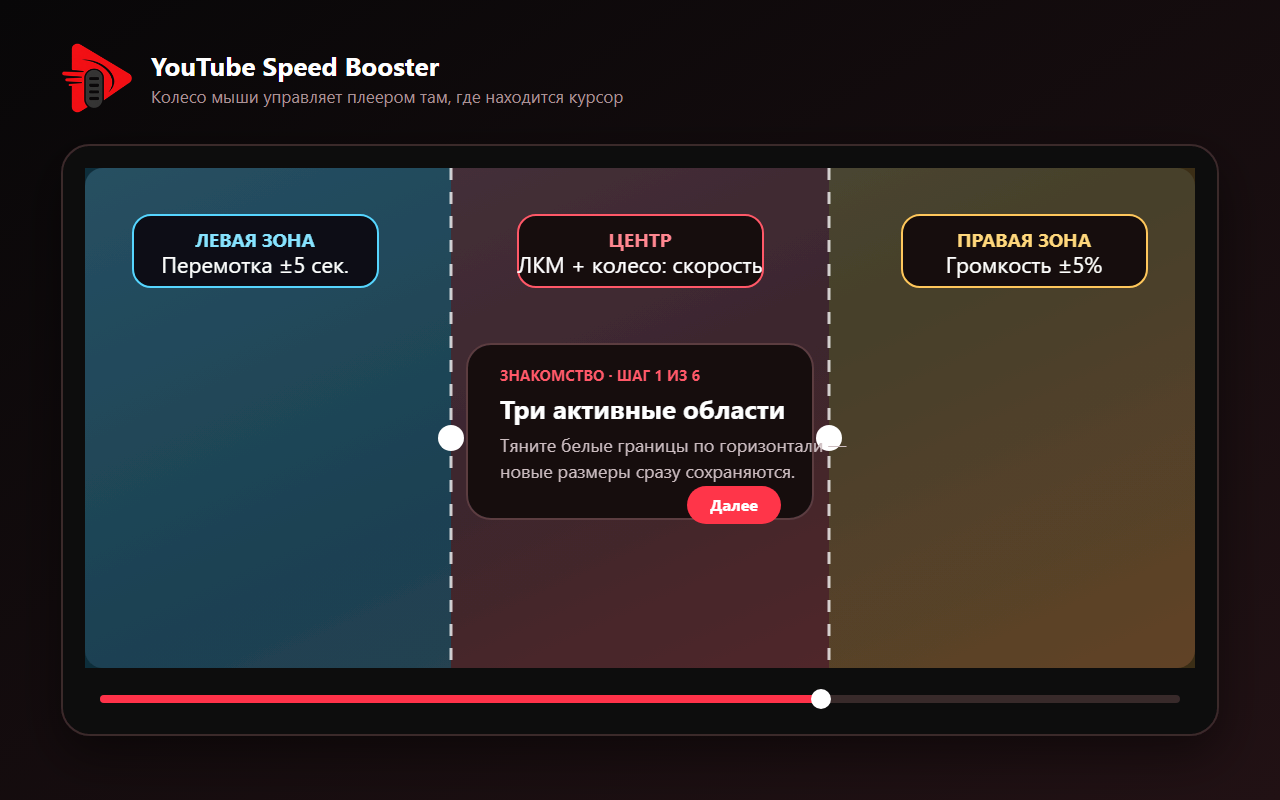
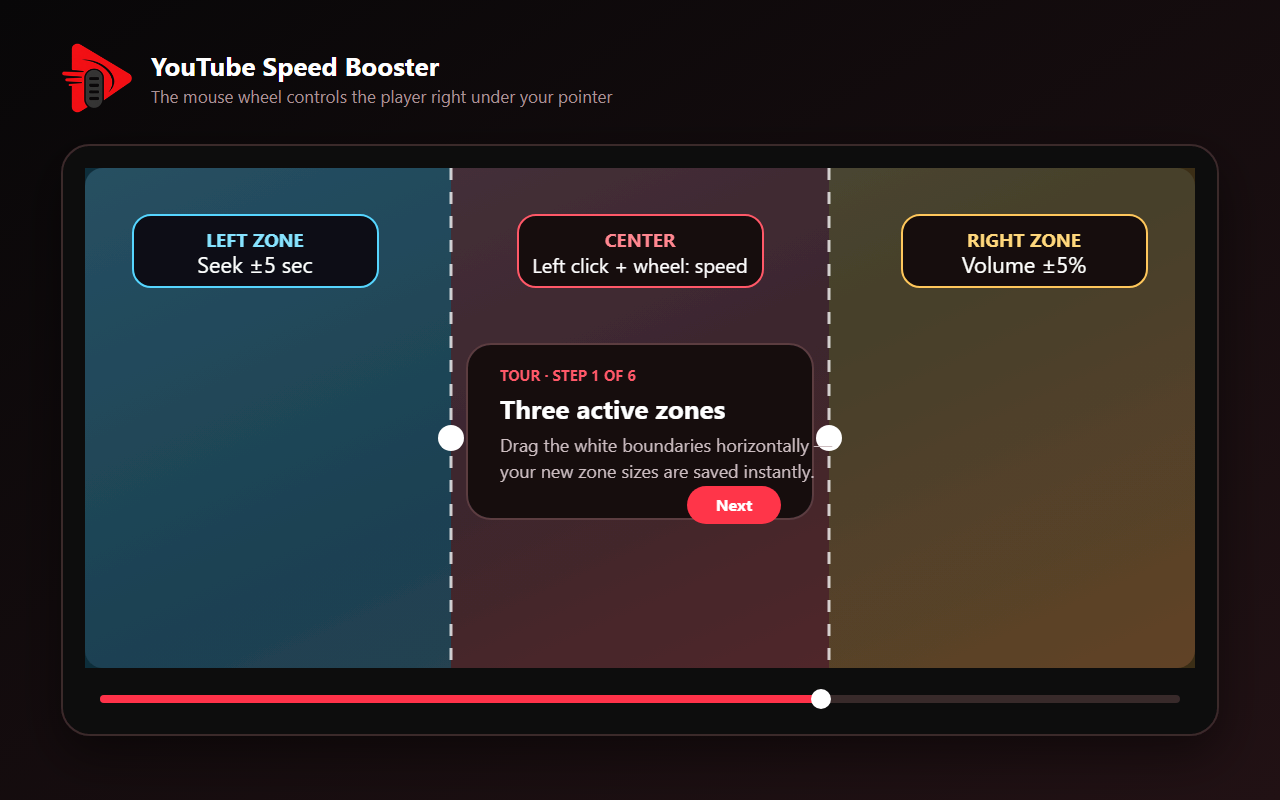
release: prepare YouTube Speed Booster 0.2.2

diff --git a/tests/popup-ui.test.js b/tests/popup-ui.test.js
@@ -7,6 +7,7 @@ const root = path.join(__dirname, "..", "youtube-speed-booster");
 const html = fs.readFileSync(path.join(root, "popup.html"), "utf8");
 const css = fs.readFileSync(path.join(root, "popup.css"), "utf8");
 const js = fs.readFileSync(path.join(root, "popup.js"), "utf8");
+const manifest = JSON.parse(fs.readFileSync(path.join(root, "manifest.json"), "utf8"));
 
 function rule(selector) {
   const start = css.indexOf(`${selector} {`);
@@ -26,6 +27,15 @@ test("GitHub footer button opens the public repository", () => {
   assert.match(config, /https:\/\/github\.com\/Work-root\/youtube-speed-booster/);
   assert.match(js, /openGitHubPage/);
   assert.match(js, /chrome\.tabs\.create\(\{ url: GITHUB_URL \}\)/);
+});
+
+test("rating button targets the exact Chrome Web Store item", () => {
+  const config = fs.readFileSync(path.join(root, "config.js"), "utf8");
+  assert.match(config, /mcfpmdhigeechfodngfolmfflffcimoh/);
+  assert.doesNotMatch(
+    config,
+    /chromeStoreUrl:\s*"https:\/\/chromewebstore\.google\.com\/detail\/youtube-speed-booster"/,
+  );
 });
 
 test("Telegram support opens the pinned channel post directly", () => {
@@ -70,4 +80,28 @@ test("settings import keeps the file input out of the popup layout", () => {
   assert.match(confirmHandler, /focus\(\{\s*preventScroll:\s*true\s*\}\)/);
   assert.match(confirmHandler, /requestAnimationFrame\(restorePopupViewport\)/);
   assert.ok((importHandler.match(/restorePopupViewport\(\)/g) || []).length >= 2);
+});
+
+test("manifest metadata is localized in every supported popup language", () => {
+  assert.equal(manifest.default_locale, "en");
+  assert.equal(manifest.name, "__MSG_extensionName__");
+  assert.equal(manifest.description, "__MSG_extensionDescription__");
+  assert.equal(manifest.action.default_title, "__MSG_actionTitle__");
+
+  for (const locale of ["en", "ru", "es", "ko"]) {
+    const messages = JSON.parse(
+      fs.readFileSync(path.join(root, "_locales", locale, "messages.json"), "utf8"),
+    );
+    for (const key of [
+      "extensionName",
+      "extensionDescription",
+      "actionTitle",
+      "commandSpeedDown",
+      "commandResetSpeed",
+      "commandSpeedUp",
+      "commandToggleMemorySpeed",
+    ]) {
+      assert.ok(messages[key]?.message, `${locale}.${key} is missing`);
+    }
+  }
 });

diff --git a/youtube-speed-booster/config.js b/youtube-speed-booster/config.js
@@ -1,10 +1,8 @@
-// Глобальные внешние ссылки popup. При публикации сюда стоит подставить
-// реальный ID Chrome Web Store.
+// Глобальные внешние ссылки popup.
 window.YSB_CONFIG = {
-  // Полный URL карточки расширения в Chrome Web Store. После публикации
-  // заменить на ссылку вида:
-  //   https://chromewebstore.google.com/detail/<slug>/<extensionId>
-  chromeStoreUrl: "https://chromewebstore.google.com/detail/youtube-speed-booster",
+  // Полный URL карточки с постоянным ID расширения в Chrome Web Store.
+  chromeStoreUrl:
+    "https://chromewebstore.google.com/detail/youtube-speed-booster/mcfpmdhigeechfodngfolmfflffcimoh",
 
   // Закреплённый пост официального канала с платной реакцией Telegram Stars.
   telegramSupportUrl: "https://t.me/YouTubeSpeedBooster/3",

diff --git a/docs/publication-plan.md b/docs/publication-plan.md
@@ -1,6 +1,6 @@
 # План первой публичной публикации YouTube Speed Booster
 
-Текущая версия расширения: `0.2.1`.
+Текущая версия расширения: `0.2.2`.
 
 ## Правильная очередность
 
@@ -27,9 +27,8 @@
    скриншоты, установка из магазина, возможности, разрешения и приватность.
 3. Проверить прямую ссылку на закреплённый пост канала в `config.js`.
 4. Подставить полный URL карточки магазина с настоящим ID в `config.js`.
-5. Добавить manifest-локализацию через `_locales/en`, `_locales/ru`,
-   `_locales/es`, `_locales/ko` и `default_locale`. Сейчас интерфейс переведён,
-   но название и краткое описание в `manifest.json` не локализованы.
+5. Поддерживать manifest-локализацию через `_locales/en`, `_locales/ru`,
+   `_locales/es`, `_locales/ko` и `default_locale`.
 6. Проверить, что название, логотип и формулировки одинаковы в расширении,
    GitHub, Telegram и магазине.
 7. Не включать в ZIP исходные генерации логотипа, резервные копии, тесты и
@@ -49,9 +48,9 @@
 
 ### 4. Опубликовать GitHub-релиз
 
-1. Обновить README и CHANGELOG для версии `0.2.1`.
+1. Обновить README и CHANGELOG для версии `0.2.2`.
 2. Закоммитить релизные изменения.
-3. Создать тег `v0.2.1` и GitHub Release.
+3. Создать тег `v0.2.2` и GitHub Release.
 4. Приложить тот же ZIP, который будет отправлен в Chrome Web Store.
 5. В релизе дать ссылку на политику конфиденциальности и Telegram-канал.
 

diff --git a/CHANGELOG.md b/CHANGELOG.md
@@ -1,0 +1,21 @@
+# Changelog
+
+All notable changes to YouTube Speed Booster are documented here.
+
+## [0.2.2] - 2026-08-24
+
+### Added
+
+- Interactive first-run tour in English, Russian, Spanish, and Korean.
+- GitHub and direct Telegram support links in the popup footer.
+- Localized extension name, description, action title, and shortcut descriptions.
+
+### Changed
+
+- Mouse-wheel speed control now covers the complete YouTube time display.
+- The tour introduces wheel zones, adjustable boundaries, timeline speed control,
+  video zoom, player tools, and speed-aware remaining time.
+- Completed live-stream recordings use the normal elapsed, duration, and
+  speed-adjusted remaining-time display.
+
+[0.2.2]: https://github.com/Work-root/youtube-speed-booster/releases/tag/v0.2.2

diff --git a/README.md b/README.md
@@ -81,6 +81,8 @@ The extension:
 Project documents:
 
 - [Privacy policy](PRIVACY.md)
+- [Changelog](CHANGELOG.md)
+- [MIT license](LICENSE)
 - [Release recommendations](docs/release-recommendations.md)
 - [Publication plan and Chrome Web Store copy](docs/publication-plan.md)
 - [Telegram support research](docs/telegram-support.md)
@@ -119,5 +121,5 @@ youtube-speed-booster/
 - Build the upload archive from tracked extension files only:
 
 ```powershell
-git archive --format=zip --output youtube-speed-booster.zip HEAD:youtube-speed-booster
+pwsh -File scripts/build-release.ps1
 ```
